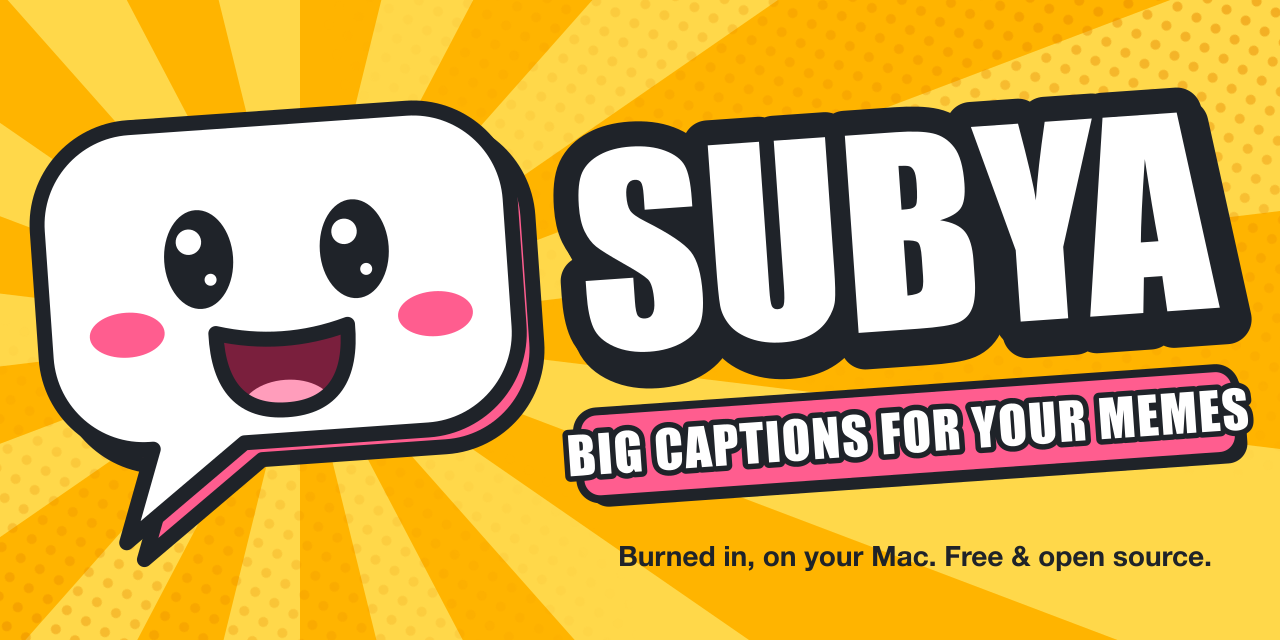
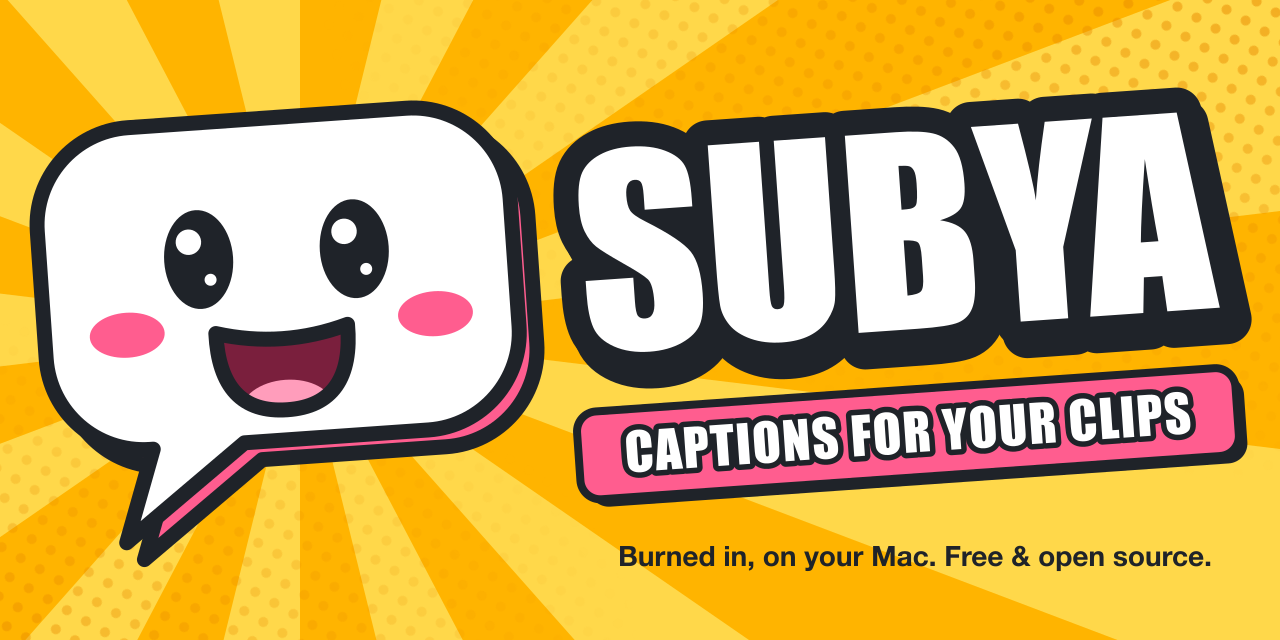
Change the tagline to "Captions for your clips"

Changed region(s): [[0.4375, 0.5938, 1.0, 0.75]]

diff --git a/docs/index.html b/docs/index.html
@@ -3,7 +3,7 @@
 <head>
 <meta charset="utf-8">
 <meta name="viewport" content="width=device-width, initial-scale=1">
-<title>Subya: big captions for your memes, made on your Mac</title>
+<title>Subya: captions for your clips, made on your Mac</title>
 <meta name="description" content="Subya is a free, open-source Mac app that burns big, readable captions into your memes and reaction clips. Transcribed on your Mac: no uploads, no account, no permissions.">
 <link rel="canonical" href="https://duggan.github.io/Subya/">
 <meta name="theme-color" content="#FFB400">
@@ -11,18 +11,18 @@
 <link rel="apple-touch-icon" href="assets/apple-touch-icon.png">
 <meta property="og:type" content="website">
 <meta property="og:site_name" content="Subya">
-<meta property="og:title" content="Subya: big captions for your memes">
+<meta property="og:title" content="Subya: captions for your clips">
 <meta property="og:description" content="A free, open-source Mac app that burns big, readable captions into your clips. Everything stays on your Mac.">
 <meta property="og:url" content="https://duggan.github.io/Subya/">
 <meta property="og:image" content="https://duggan.github.io/Subya/assets/banner.png">
 <meta property="og:image:width" content="1280">
 <meta property="og:image:height" content="640">
-<meta property="og:image:alt" content="A beaming white speech bubble with dot eyes and pink cheeks on a yellow comic sunburst, next to the word SUBYA and the line: big captions for your memes.">
+<meta property="og:image:alt" content="A beaming white speech bubble with dot eyes and pink cheeks on a yellow comic sunburst, next to the word SUBYA and the line: captions for your clips.">
 <meta name="twitter:card" content="summary_large_image">
-<meta name="twitter:title" content="Subya: big captions for your memes">
+<meta name="twitter:title" content="Subya: captions for your clips">
 <meta name="twitter:description" content="A free, open-source Mac app that burns big, readable captions into your clips. Everything stays on your Mac.">
 <meta name="twitter:image" content="https://duggan.github.io/Subya/assets/banner.png">
-<meta name="twitter:image:alt" content="A beaming white speech bubble with dot eyes and pink cheeks on a yellow comic sunburst, next to the word SUBYA and the line: big captions for your memes.">
+<meta name="twitter:image:alt" content="A beaming white speech bubble with dot eyes and pink cheeks on a yellow comic sunburst, next to the word SUBYA and the line: captions for your clips.">
 <style>
 /* ---------- basics ---------- */
 :root {
@@ -396,7 +396,7 @@ footer :focus-visible { outline-color: #fff; box-shadow: none; }
   <div class="wrap">
     <div class="hero-grid">
       <div>
-        <h1 class="display outlined">Big captions for your <em>memes.</em></h1>
+        <h1 class="display outlined">Captions for your <em>clips.</em></h1>
         <p class="lede">Subya (&ldquo;sub ya&rdquo;) burns big, readable captions straight into your clips, so the line lands even when the group chat is watching on mute. Drop a video in, fix the words, send it.</p>
         <div class="cta-row">
           <a class="btn" href="https://github.com/duggan/Subya/releases/latest/download/Subya.dmg">

diff --git a/Resources/art/make_banner.py b/Resources/art/make_banner.py
@@ -27,7 +27,7 @@ print(f'''<svg xmlns="http://www.w3.org/2000/svg" viewBox="0 0 1280 640" width="
 <text x="900" y="330" text-anchor="middle" font-family="{F}" font-size="250" fill="#FFF" stroke="{INK}" stroke-width="50" stroke-linejoin="round" paint-order="stroke">SUBYA</text>
 <rect x="578" y="398" width="660" height="88" rx="20" fill="{INK}"/>
 <rect x="570" y="390" width="660" height="88" rx="20" fill="{PINK}" stroke="{INK}" stroke-width="8"/>
-<text x="900" y="453" text-anchor="middle" font-family="{F}" font-size="52" letter-spacing="1.5" fill="#FFF" stroke="{INK}" stroke-width="11" stroke-linejoin="round" paint-order="stroke">BIG CAPTIONS FOR YOUR MEMES</text>
+<text x="900" y="453" text-anchor="middle" font-family="{F}" font-size="52" letter-spacing="1.5" fill="#FFF" stroke="{INK}" stroke-width="11" stroke-linejoin="round" paint-order="stroke">CAPTIONS FOR YOUR CLIPS</text>
 </g>
 <text x="915" y="566" text-anchor="middle" font-family="Helvetica Neue, Helvetica, Arial, sans-serif" font-weight="bold" font-size="28" fill="{INK}">Burned in, on your Mac. Free &amp; open source.</text>
 </svg>''')

diff --git a/README.md b/README.md
@@ -1,5 +1,5 @@
 <p align="center">
-  <img src="docs/assets/banner.png" alt="Subya: big, loud captions for your memes and reaction clips" width="760">
+  <img src="docs/assets/banner.png" alt="Subya: captions for your clips" width="760">
 </p>
 
 <p align="center">
